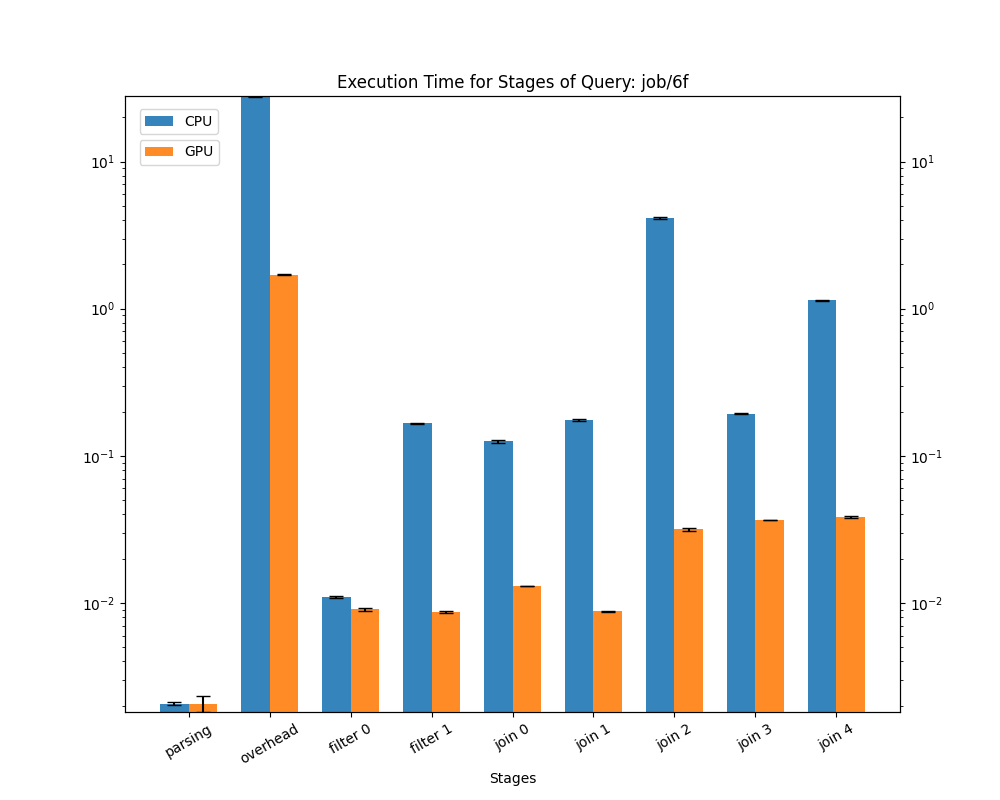
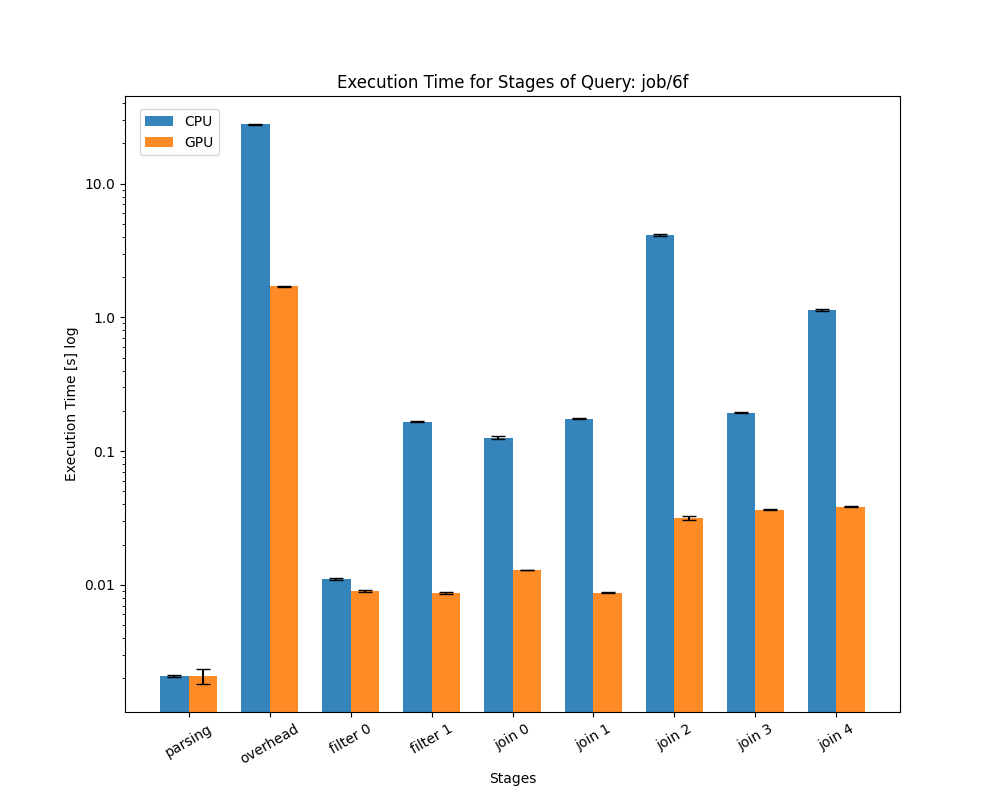
Style

diff --git a/jb-environment/join-benchmark/benchmark/run/individual/main_plot_query_times.py b/jb-environment/join-benchmark/benchmark/run/individual/main_plot_query_times.py
@@ -1,3 +1,4 @@
+from matplotlib.ticker import FuncFormatter
 import numpy as np
 import pandas as pd
 from benchmark.tools.tools import ensure_dir
@@ -83,7 +84,6 @@ def main(
             *[np.std([row[jn] for row in df_g_q["JOINS"]]) for jn in range(n_join)],
         ]
         
-
         # ======================== PLOTTING ========================
 
         plt.figure(figsize=(10, 8))
@@ -92,11 +92,8 @@ def main(
         # Create a list of indices for the x-axis
         indices = range(len(keys))
 
-        # Plot the real values on the first y-axis
-        # ax1 = plt.bar(indices, real_values, width, label="Real", color="#1f77b4", alpha=0.9)
-        # plt.ylabel('Real Values')
+        # Plot CPU means with error bars on the first y-axis
         ax1 = plt.gca()
-        # Plot CPU means with error bars
         ax1.bar(
             indices,
             means_cpu,
@@ -108,16 +105,8 @@ def main(
             capsize=5,  # Optional: adds caps to the error bars
         )
 
-        all_values = means_cpu + means_gpu
-        all_stds = stds_cpu + stds_gpu
-        global_min = min([val - std for val, std in zip(all_values, all_stds)])
-        global_max = max([val + std for val, std in zip(all_values, all_stds)])
-
-        # Create a second y-axis that shares the same x-axis
-        ax2 = plt.twinx()
-
-        # Plot the predicted values on the second y-axis
-        ax2.bar(
+        # Plot GPU means with error bars, slightly offset on the x-axis for clarity
+        ax1.bar(
             [i + width for i in indices],
             means_gpu,
             width,
@@ -127,26 +116,30 @@ def main(
             alpha=0.9,
             capsize=5,  # Optional: adds caps to the error bars
         )
-        
+
+        # Adjust the y-axis scale if needed
         ax1.set_yscale("log")
-        ax1.set_ylim([global_min, global_max])
-        ax2.set_yscale("log")
-        ax2.set_ylim(global_min, global_max)
-        
-        # ax2.set_ylabel("GPU")
+        ax1.yaxis.set_major_formatter(FuncFormatter(lambda x, pos: '{:}'.format(x)))
+
+
+        # Set the x-axis ticks and labels
         ax1.set_xticks([i + width / 2 for i in indices])
         ax1.set_xticklabels(keys, rotation=30)
 
+        # Set the x-axis label and add the legend
         ax1.set_xlabel("Stages")
+        ax1.set_ylabel("Execution Time [s] log")
         ax1.legend(loc='upper left', bbox_to_anchor=(0.01, 0.99))
-        ax2.legend(loc='upper left', bbox_to_anchor=(0.01, 0.94))
-        
+
+        # Set the plot title
         plt.title("Execution Time for Stages of Query: " + query)
-        
+
+        # Save the plot
         dir_path = f"{res_path}/figs/query-details/{query}.png"
         ensure_dir(dir_path)
         plt.savefig(dir_path)
 
+        # Close the plot to free up memory
         plt.close()
 
     print("Done!")
